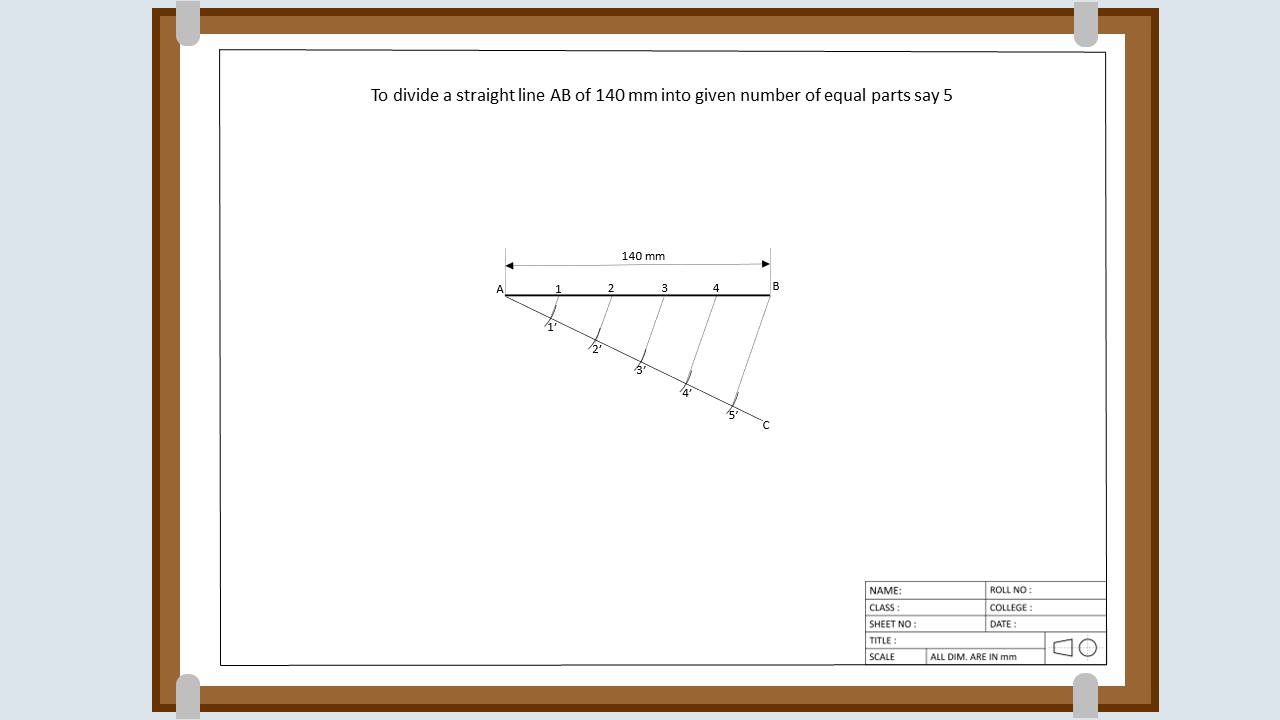
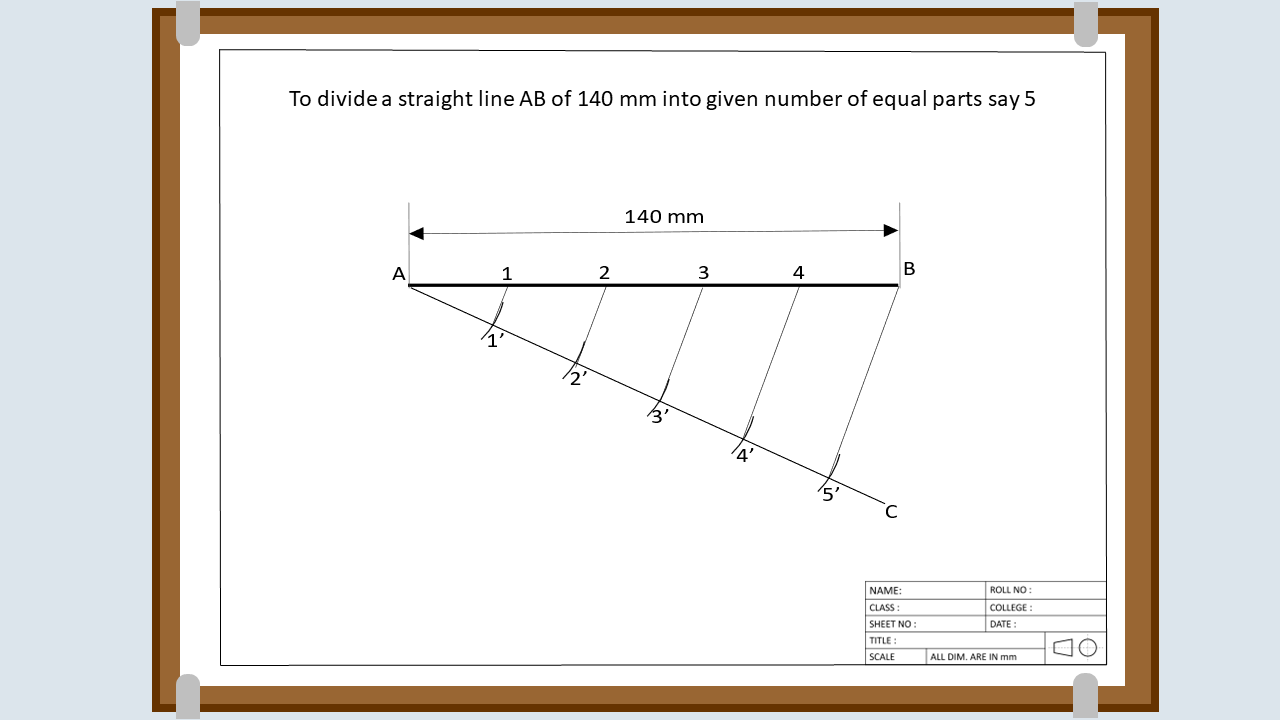
modification in images of exp1

diff --git a/experiment/simulation/html/experiments-files/exp1.html b/experiment/simulation/html/experiments-files/exp1.html
@@ -53,7 +53,7 @@
 
         <img src="../../images/exp-step1.png" alt="img-1" class="exp-image-section" id="png1-step1" >
 
-        <img src="../../images/exp1Images/png2-step1.jpg" alt="img-2" class="exp-image-section" id="png2-step1">
+        <img src="../../images/exp1Images/new/2.gif" alt="img-2" class="exp-image-section" id="png2-step1">
 
         <img src="../../images/exp1Images/png3-step1.png" alt="img-2" class="exp-image-section" id="png3-step1">
 
@@ -77,11 +77,13 @@
 
         <img src="../../images/exp1Images/gif1-step1.gif" alt="GIFS" class="exp-image-section-gifs" id="gif1-step1">
 
-        <img src="../../images/exp1Images/gif2-step1.gif" alt="GIFS" class="exp-image-section-gifs" id="gif2-step1">
+        <!-- <img src="../../images/exp1Images/gif2-step1.gif" alt="GIFS" class="exp-image-section-gifs" id="gif2-step1"> -->
+
+        <img src="../../images/exp1Images/new/3.gif" alt="GIFS" class="exp-image-section-gifs" id="gif2-step1">
 
         <!-- COMPASS GIFS  -->
 
-        <img src="../../images/exp1Images/gif3-step1.gif" alt="GIFS" class="exp-image-section-gifs" id="gif3-step1">
+        <img src="../../images/exp1Images/new/4.gif" alt="GIFS" class="exp-image-section-gifs" id="gif3-step1">
 
         <img src="../../images/exp1Images/gif4-step1.gif" alt="GIFS" class="exp-image-section-gifs" id="gif4-step1">
 
@@ -93,9 +95,9 @@
 
         <!-- PARALLEL LINE GIFS  -->
 
-        <img src="../../images/exp1Images/gif8-step1.gif" alt="GIFS" class="exp-image-section-gifs" id="gif8-step1">
+        <img src="../../images/exp1Images/new/5-1.gif" alt="GIFS" class="exp-image-section-gifs" id="gif8-step1">
 
-        <img src="../../images/exp1Images/gif9-step1.gif" alt="GIFS" class="exp-image-section-gifs" id="gif9-step1">
+        <img src="../../images/exp1Images/new/5-2.gif" alt="GIFS" class="exp-image-section-gifs" id="gif9-step1">
 
         <img src="../../images/exp1Images/gif10-step1.gif" alt="GIFS" class="exp-image-section-gifs" id="gif10-step1">
 
@@ -103,7 +105,7 @@
 
         <img src="../../images/exp1Images/gif12-step1.gif" alt="GIFS" class="exp-image-section-gifs" id="gif12-step1">
 
-        <img src="../../images/exp1Images/gif13-step1.gif" alt="GIFS" class="exp-image-section-gifs" id="gif13-step1">
+        <img src="../../images/exp1Images/new/6.gif" alt="GIFS" class="exp-image-section-gifs" id="gif13-step1">
 
         <!-- SELECTION  -->
 
@@ -136,13 +138,13 @@
 
         <img src="../../images/transbox.png" alt="transbox" class="exp-transboxes" id="trans3-step1">
 
-        <img src="../../images/transbox.png" alt="transbox" class="exp-transboxes" id="trans4-step1">
+        <!-- <img src="../../images/transbox.png" alt="transbox" class="exp-transboxes" id="trans4-step1">
 
         <img src="../../images/transbox.png" alt="transbox" class="exp-transboxes" id="trans5-step1">
 
         <img src="../../images/transbox.png" alt="transbox" class="exp-transboxes" id="trans6-step1">
 
-        <img src="../../images/transbox.png" alt="transbox" class="exp-transboxes" id="trans7-step1">
+        <img src="../../images/transbox.png" alt="transbox" class="exp-transboxes" id="trans7-step1"> -->
 
         <img src="../../images/transbox.png" alt="transbox" class="exp-transboxes" id="trans8-step1">
         

diff --git a/experiment/simulation/css/exp1-ids.css b/experiment/simulation/css/exp1-ids.css
@@ -57,17 +57,17 @@
 /* TRANSBOXES  */
 
 #trans1-step1, #trans2-step1, #trans8-step1{
-    top: 80px;
+    top: 70px;
     left: 425px;
     width: 65px;
-    height: 40px;
+    height: 50px;
 }
 
 #trans3-step1{
-    top: 80px;
+    top: 70px;
     left: 485px;
     width: 65px;
-    height: 40px;
+    height: 50px;
 }
 
 #trans4-step1{
@@ -113,7 +113,7 @@
 /* ARROWS  */
 
 #arr1-step1{
-    visibility: visible;
+    visibility: hidden;
     position: absolute;
     top: 40px;
     left: 80px;

diff --git a/experiment/simulation/html/starter-files/starter1.html b/experiment/simulation/html/starter-files/starter1.html
@@ -43,7 +43,7 @@
 
           <!-- <h3 class="instruction" style="top: 100px">Instruments used:</h3> -->
 
-          <img class="starter-png1" id="mainPageImgExp1" src="../../images/exp1Images/new/main-exp1.gif" alt="Instruments"/>
+          <img class="starter-png1" id="mainPageImgExp1" src="../../images/exp1Images/main-exp1.gif" alt="Instruments"/>
 
           <button style="position: absolute;" class="next" id="next-to-setup1" onclick="">Start</button>
           

diff --git a/experiment/simulation/css/starter.css b/experiment/simulation/css/starter.css
@@ -13,10 +13,10 @@
 }
 
 #mainPageImgExp1{
-    width: 600px;
-    height: 200px;
-    top: 200px;
-    left: 100px;
+    position: absolute;
+    width: 700px;
+    top: 125px;
+    left: 50px;
 }
 
 .arr-next{

diff --git a/experiment/simulation/css/experiments-classes.css b/experiment/simulation/css/experiments-classes.css
@@ -28,8 +28,8 @@
     visibility: visible;
     position: absolute;
     width: 450px;
-    height: 40px;
-    top: 80px;
+    height: 50px;
+    top: 70px;
     left: 170px;
 }
 
